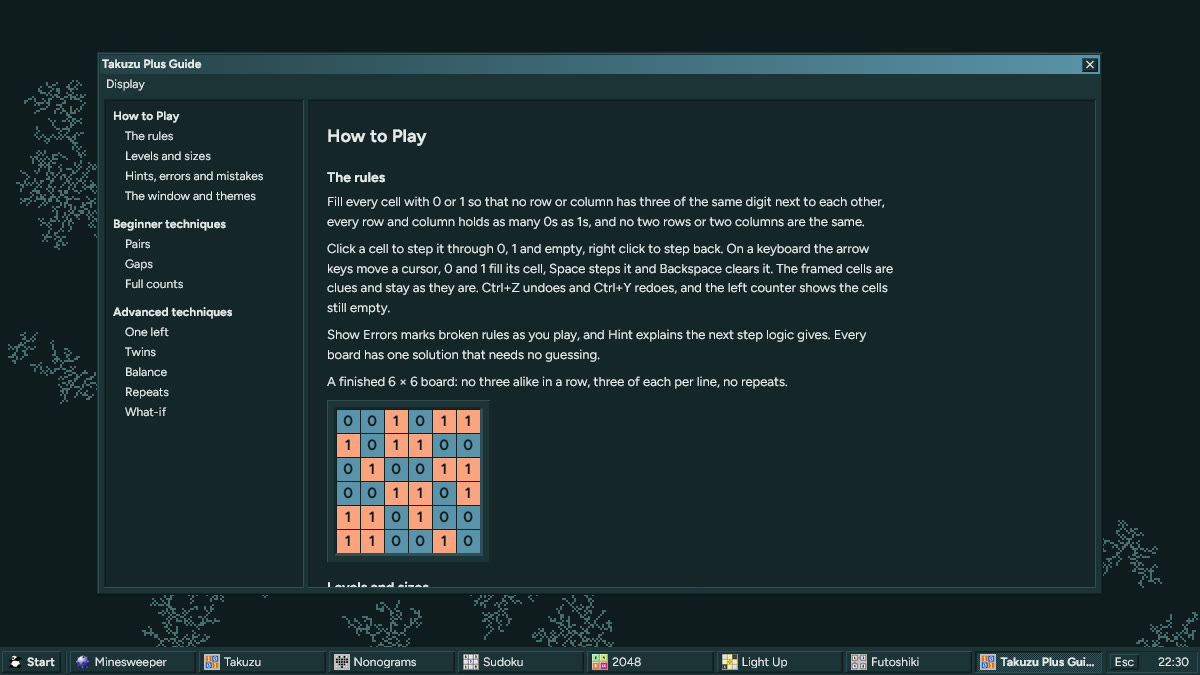
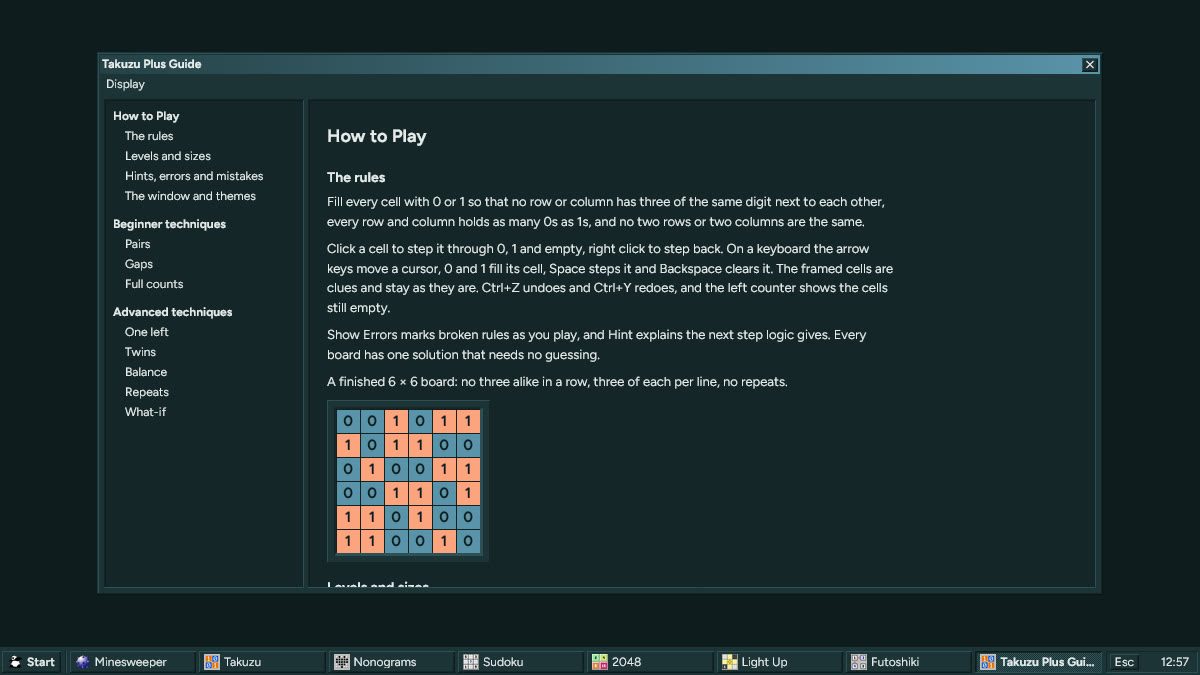
Statistics: Best Times shows the average time and a table of wins and average time by board for every game; roadmap: daily calendar won't do, accessibility postponed, no version bumps or builds until 2.0.0; guide picture retaken

diff --git a/src/shell/stats.js b/src/shell/stats.js
@@ -2,7 +2,9 @@ import { load, remove, save } from './storage'
 
 //wins, losses and streaks of a game kept as one json under <prefix>.stats
 //a streak is wins in a row without help, a loss or a helped win ends it
-const fields = ['won', 'lost', 'clean', 'streak', 'best']
+//timed holds the wins that count towards the average (timed, without help) and total their seconds
+//levels is the same by board, as label: [wins, seconds]
+const fields = ['won', 'lost', 'clean', 'streak', 'best', 'timed', 'total']
 
 const keyOf = (prefix) => `${prefix}.stats`
 
@@ -13,9 +15,33 @@ export const readStats = (prefix) => {
   } catch {
     //a damaged save counts as none
   }
-  return Object.fromEntries(
+  const stats = Object.fromEntries(
     fields.map((field) => [field, Math.max(0, parseInt(saved && saved[field], 10) || 0)]),
   )
+  stats.levels = {}
+  const found = saved && saved.levels
+  if (found && typeof found === 'object') {
+    for (const [name, pair] of Object.entries(found)) {
+      const [wins, seconds] = Array.isArray(pair) ? pair.map((v) => parseInt(v, 10)) : []
+      if (wins >= 0 && seconds >= 0) stats.levels[name] = [wins, seconds]
+    }
+  }
+  return stats
+}
+
+//the seconds a win counts for the average: none when untimed, helped or from a link
+export const timeOf = (timer, game) =>
+  timer && !game.untimed && !game.hinted && !game.shared && game.time > 0 ? game.time : 0
+
+//the average of total over count, in seconds, 0 when there is none
+export const average = (total, count) => (count ? Math.round(total / count) : 0)
+
+//a time as m:ss, or h:mm:ss from an hour
+export const clockText = (seconds) => {
+  const h = Math.floor(seconds / 3600)
+  const m = Math.floor((seconds % 3600) / 60)
+  const sec = String(seconds % 60).padStart(2, '0')
+  return h ? `${h}:${String(m).padStart(2, '0')}:${sec}` : `${m}:${sec}`
 }
 
 //losses are only counted, and shown, once switched on (Minesweeper and 2048 can be lost)
@@ -33,7 +59,7 @@ export const lossActions = {
 }
 
 //one finished game, a loss is skipped while they are not tracked
-export const tally = (prefix, { won, clean = true }) => {
+export const tally = (prefix, { won, clean = true, time = 0, level = '' }) => {
   if (!won && !lossesOn()) return
   const stats = readStats(prefix)
   if (won) stats.won++
@@ -42,6 +68,14 @@ export const tally = (prefix, { won, clean = true }) => {
     stats.clean++
     stats.streak++
     stats.best = Math.max(stats.best, stats.streak)
+    if (time > 0) {
+      stats.timed++
+      stats.total += time
+      if (level) {
+        const [wins, seconds] = stats.levels[level] || [0, 0]
+        stats.levels[level] = [wins + 1, seconds + time]
+      }
+    }
   } else {
     stats.streak = 0
   }

diff --git a/src/shell/stats.test.js b/src/shell/stats.test.js
@@ -1,10 +1,19 @@
 import { beforeEach, expect, it } from 'vitest'
-import { clearStats, readStats, tally } from './stats'
+import { average, clearStats, clockText, readStats, tally, timeOf } from './stats'
 
 beforeEach(() => localStorage.clear())
 
 it('starts at zero and survives a damaged save', () => {
-  expect(readStats('g')).toEqual({ won: 0, lost: 0, clean: 0, streak: 0, best: 0 })
+  expect(readStats('g')).toEqual({
+    won: 0,
+    lost: 0,
+    clean: 0,
+    streak: 0,
+    best: 0,
+    timed: 0,
+    total: 0,
+    levels: {},
+  })
   localStorage.setItem('g.stats', '{nope')
   expect(readStats('g').won).toBe(0)
 })
@@ -31,4 +40,40 @@ it('clears one game and leaves another', () => {
   tally('h', { won: true })
   expect(clearStats('g').won).toBe(0)
   expect(readStats('h').won).toBe(1)
+})
+
+it('averages timed wins without help, overall and by board', () => {
+  tally('g', { won: true, time: 100, level: '9 × 9 Easy' })
+  tally('g', { won: true, time: 200, level: '9 × 9 Easy' })
+  tally('g', { won: true, time: 90, level: '9 × 9 Hard' })
+  //a helped win and an untimed one count as wins but not towards the averages
+  tally('g', { won: true, clean: false, time: 0, level: '9 × 9 Easy' })
+  tally('g', { won: true, level: '9 × 9 Easy' })
+  const stats = readStats('g')
+  expect(stats).toMatchObject({ won: 5, timed: 3, total: 390 })
+  expect(stats.levels).toEqual({ '9 × 9 Easy': [2, 300], '9 × 9 Hard': [1, 90] })
+  expect(average(stats.total, stats.timed)).toBe(130)
+})
+
+it('drops damaged board entries', () => {
+  localStorage.setItem(
+    'g.stats',
+    JSON.stringify({ won: 1, levels: { a: [1, 5], b: 'x', c: [-1, 2] } }),
+  )
+  expect(readStats('g').levels).toEqual({ a: [1, 5] })
+})
+
+it('counts a time only for a timed, unhelped game of the player', () => {
+  const game = { time: 42 }
+  expect(timeOf(true, game)).toBe(42)
+  expect(timeOf(false, game)).toBe(0)
+  expect(timeOf(true, { ...game, untimed: true })).toBe(0)
+  expect(timeOf(true, { ...game, hinted: true })).toBe(0)
+  expect(timeOf(true, { ...game, shared: true })).toBe(0)
+})
+
+it('writes times as minutes and seconds', () => {
+  expect(clockText(5)).toBe('0:05')
+  expect(clockText(754)).toBe('12:34')
+  expect(clockText(3725)).toBe('1:02:05')
 })

diff --git a/src/shell/StatsList.jsx b/src/shell/StatsList.jsx
@@ -1,5 +1,6 @@
 import { h } from 'hyperapp'
 import s from './StatsList.module.css'
+import { average, clockText } from './stats'
 
 //games finished, with the rate for games that can be lost, and streaks without help
 const StatsList = ({ stats, losses = false, wonLabel = 'Won' }) => {
@@ -13,9 +14,12 @@ const StatsList = ({ stats, losses = false, wonLabel = 'Won' }) => {
         ]
       : []),
     ['Without help', stats.clean],
+    ...(stats.timed ? [['Average time', clockText(average(stats.total, stats.timed))]] : []),
     ['Streak', stats.streak],
     ['Best streak', stats.best],
   ]
+  //boards won timed and without help, the most played first
+  const boards = Object.entries(stats.levels || {}).sort((a, b) => b[1][0] - a[1][0])
   return (
     <div class={s.root}>
       <dl class={s.list}>
@@ -26,7 +30,18 @@ const StatsList = ({ stats, losses = false, wonLabel = 'Won' }) => {
           </div>
         ))}
       </dl>
-      <p class={s.note}>Streaks count wins without hints or undo.</p>
+      {boards.length > 0 && (
+        <div class={s.boards} title="Wins without hints or undo, timed">
+          {boards.map(([name, [wins, seconds]]) => (
+            <div class={s.board}>
+              <span>{name}</span>
+              <span>{wins} won</span>
+              <span>{clockText(average(seconds, wins))}</span>
+            </div>
+          ))}
+        </div>
+      )}
+      <p class={s.note}>Streaks and averages count wins without hints or undo.</p>
     </div>
   )
 }

diff --git a/src/app.jsx b/src/app.jsx
@@ -15,7 +15,15 @@ import { placeMines } from './mines'
 import { explainChord, findHint, noHint } from './hint'
 import { load, save, remove } from './shell/storage'
 import { listen, shellActions, shellState, shortcut } from './shell/actions'
-import { clearStats, lossActions, lossesOn, lossState, readStats, tally } from './shell/stats'
+import {
+  clearStats,
+  lossActions,
+  lossesOn,
+  lossState,
+  readStats,
+  tally,
+  timeOf,
+} from './shell/stats'
 import {
   clock,
   loadTimer,
@@ -441,7 +449,7 @@ export const actions = {
     },
   up:
     () =>
-    ({ game, safeStart, noGuess }, actions) => {
+    ({ game, safeStart, noGuess, timer }, actions) => {
       window.removeEventListener('mouseup', actions.up)
       const { width, height, pressedX, pressedY } = game
       if (game.win || game.lose || game.paused || pressedX < 0 || pressedY < 0) {
@@ -514,7 +522,12 @@ export const actions = {
       const win = left <= 0
       if (win || lose) {
         stopTick(game.raf)
-        tally('minesweeper', { won: !lose, clean: !game.hinted })
+        tally('minesweeper', {
+          won: !lose,
+          clean: !game.hinted,
+          time: timeOf(timer, { ...game, time: begin ? 1 : game.time }),
+          level: saved.label(game),
+        })
         if (!lose) {
           celebrate('minesweeper')
           actions.win()

diff --git a/src/nonograms/app.jsx b/src/nonograms/app.jsx
@@ -7,7 +7,7 @@ import Taskbar from '../shell/Taskbar'
 import OpenGames from '../shell/OpenGames'
 import { load, save } from '../shell/storage'
 import { records } from '../shell/records'
-import { tally } from '../shell/stats'
+import { tally, timeOf } from '../shell/stats'
 import BestTimes from '../shell/BestTimes'
 import Prompt from '../shell/Prompt'
 import { showRain } from '../shell/rain'
@@ -181,7 +181,13 @@ const changed = (state, game, board, history, actions, settled = false) => {
   if (next.win) {
     stopTick(next.raf)
     celebrate()
-    if (!state.game.win) tally('nonograms', { won: true, clean: !next.hinted })
+    if (!state.game.win)
+      tally('nonograms', {
+        won: true,
+        clean: !next.hinted,
+        time: timeOf(state.timer, next),
+        level: saved.label(next),
+      })
     finish('nonograms', state, next, actions, record)
   }
   const stuck = !next.win && fillsLeft(board, next.n, next.clues) === 0

diff --git a/src/futoshiki/app.jsx b/src/futoshiki/app.jsx
@@ -7,7 +7,7 @@ import Taskbar from '../shell/Taskbar'
 import OpenGames from '../shell/OpenGames'
 import { load, save } from '../shell/storage'
 import { records } from '../shell/records'
-import { tally } from '../shell/stats'
+import { tally, timeOf } from '../shell/stats'
 import BestTimes from '../shell/BestTimes'
 import Prompt from '../shell/Prompt'
 import {
@@ -232,7 +232,13 @@ const changed = (state, board, notes, history, actions) => {
   if (next.win) {
     stopTick(next.raf)
     celebrate()
-    if (!state.game.win) tally('futoshiki', { won: true, clean: !next.hinted })
+    if (!state.game.win)
+      tally('futoshiki', {
+        won: true,
+        clean: !next.hinted,
+        time: timeOf(state.timer, next),
+        level: saved.label(next),
+      })
     finish('futoshiki', state, next, actions)
   }
   return { hint: null, prompt: !next.win && full(board), game: next }

diff --git a/src/sudoku/app.jsx b/src/sudoku/app.jsx
@@ -7,7 +7,7 @@ import Taskbar from '../shell/Taskbar'
 import OpenGames from '../shell/OpenGames'
 import { load, save } from '../shell/storage'
 import { records } from '../shell/records'
-import { tally } from '../shell/stats'
+import { tally, timeOf } from '../shell/stats'
 import BestTimes from '../shell/BestTimes'
 import Prompt from '../shell/Prompt'
 import {
@@ -231,7 +231,13 @@ const changed = (state, board, notes, history, actions) => {
   if (next.win) {
     stopTick(next.raf)
     celebrate()
-    if (!state.game.win) tally('sudoku', { won: true, clean: !next.hinted })
+    if (!state.game.win)
+      tally('sudoku', {
+        won: true,
+        clean: !next.hinted,
+        time: timeOf(state.timer, next),
+        level: saved.label(next),
+      })
     finish('sudoku', state, next, actions, (won) =>
       actions.win({ ...won, n: won.layout ? jigsaw : won.n }),
     )

diff --git a/src/lightup/app.jsx b/src/lightup/app.jsx
@@ -7,7 +7,7 @@ import Taskbar from '../shell/Taskbar'
 import OpenGames from '../shell/OpenGames'
 import { load, save } from '../shell/storage'
 import { records } from '../shell/records'
-import { tally } from '../shell/stats'
+import { tally, timeOf } from '../shell/stats'
 import {
   gameKey,
   historyKey,
@@ -193,7 +193,13 @@ const changed = (state, board, history, actions, settled = false) => {
   if (next.win) {
     stopTick(next.raf)
     celebrate()
-    if (!state.game.win) tally('lightup', { won: true, clean: !next.hinted })
+    if (!state.game.win)
+      tally('lightup', {
+        won: true,
+        clean: !next.hinted,
+        time: timeOf(state.timer, next),
+        level: saved.label(next),
+      })
     finish('lightup', state, next, actions)
   }
   const stuck = !next.win && darkLeft(next.layout, board, next.n) === 0

diff --git a/src/takuzu/app.jsx b/src/takuzu/app.jsx
@@ -7,7 +7,7 @@ import Taskbar from '../shell/Taskbar'
 import OpenGames from '../shell/OpenGames'
 import { load, remove, save } from '../shell/storage'
 import { records } from '../shell/records'
-import { tally } from '../shell/stats'
+import { tally, timeOf } from '../shell/stats'
 import {
   gameKey,
   historyKey,
@@ -196,7 +196,13 @@ const changed = (state, board, history, actions, settled = false) => {
   if (next.win) {
     stopTick(next.raf)
     celebrate()
-    if (!state.game.win) tally('takuzu', { won: true, clean: !next.hinted })
+    if (!state.game.win)
+      tally('takuzu', {
+        won: true,
+        clean: !next.hinted,
+        time: timeOf(state.timer, next),
+        level: saved.label(next),
+      })
     finish('takuzu', state, next, actions)
   }
   const stuck = !next.win && full(board)

diff --git a/src/shell/StatsList.module.css b/src/shell/StatsList.module.css
@@ -48,3 +48,22 @@
   font-size: 0.85em;
   opacity: 0.7;
 }
+
+/*average time by board, scrolling when many are played*/
+.boards {
+  display: grid;
+  gap: 1px 16px;
+  max-height: 7.5em;
+  margin: 8px 0 0;
+  overflow-y: auto;
+}
+
+.board {
+  display: grid;
+  grid-template-columns: 1fr auto auto;
+  gap: 16px;
+}
+
+.board span:not(:first-child) {
+  text-align: right;
+}

diff --git a/src/shell/resume.js b/src/shell/resume.js
@@ -153,7 +153,7 @@ export const resumable = ({ key, running, pack, unpack, label = () => '', fresh 
     return linked || kept
   }
 
-  return { keep, restore, open, list, actions }
+  return { keep, restore, open, list, label, actions }
 }
 
 //a check for unpack, so a save from another version is dropped instead of half used

diff --git a/src/2048/app.jsx b/src/2048/app.jsx
@@ -231,7 +231,7 @@ export const actions = {
     if (reached) {
       next.reached = true
       celebrate()
-      tally('2048', { won: true, clean: !assistedOf(next) })
+      tally('2048', { won: true, clean: !assistedOf(next), level: `${next.n} × ${next.n}` })
     }
     let winner = null
     if (next.over) {
